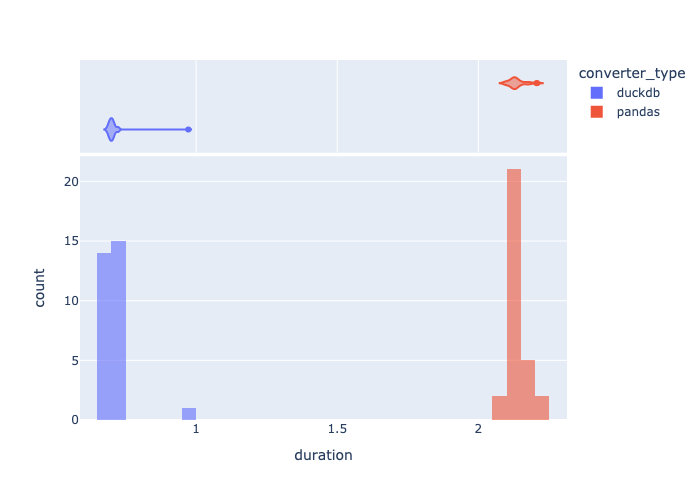
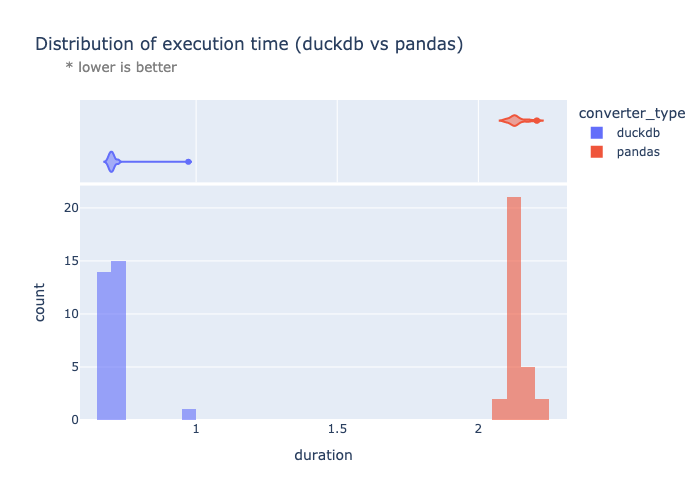
fixes

diff --git a/write_plot.py b/write_plot.py
@@ -12,6 +12,13 @@ def main() -> None:
         data = json.load(f)
     df = pd.DataFrame(data)
 
+    title = """
+Distribution of execution time (duckdb vs pandas)
+<br>
+<span style='font-size: 0.8em; color: gray'>
+    * lower is better
+</span>
+"""
     # overlap histogram of distribution of duration for each converter type
     fig = px.histogram(
         df,
@@ -22,6 +29,7 @@ def main() -> None:
         hover_data=df.columns,
         nbins=len(df),
         barmode="overlay",
+        title=title,
     )
     fig.write_image("img/plot.png")
 
